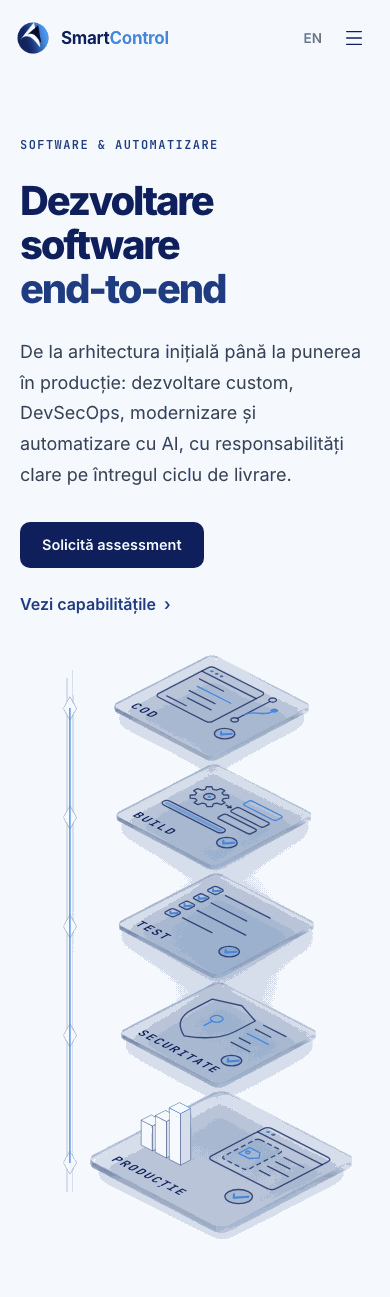
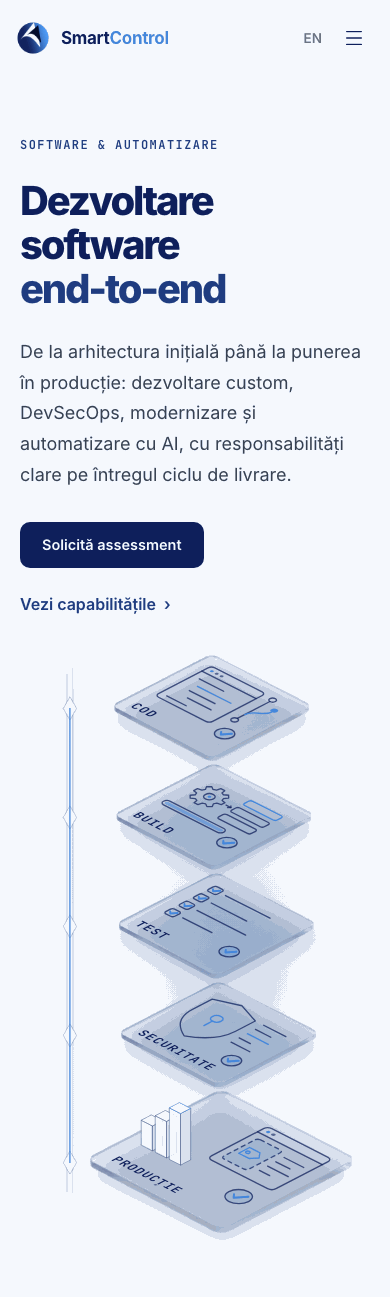
Keep engraved scene labels >=10px from 320 to 1440px
- Cloud and Software use the stacked composition up to 1100px (beside the
  copy at 901-1100px, below it under 901px); SCENE_MOBILE follows.
- Cloud desktop shows the 01-04 prefixes only from 1440px and engraves the
  bare names larger below that.
- Software desktop labels use tighter tracking; at 1101-1279px the scene
  takes a larger share of the row. Scenes may bleed 16px into the margin.
- check-service-scenes measures every visible label (glyph height via
  getExtentOfChar x screen CTM and glyph advance, the smaller of the two)
  and asserts >=10px at 320/390/640/768/900/1024/1100/1152/1280/1440.
- README: measured minimums per scene/width, 1024px screenshots.

diff --git a/src/components/scenes/cloud-scene.ts b/src/components/scenes/cloud-scene.ts
@@ -292,16 +292,22 @@ function tagSVG(
   kind: CloudLayoutKind,
 ) {
   const name = CLOUD_NAMES[lang][n].toLocaleUpperCase(lang);
-  // Mobile drops the number prefix so the name can be engraved larger.
-  const text = kind === "desktop" ? `0${n + 1}  ${name}` : name;
-  const spacing = kind === "desktop" ? 1.6 : 1;
-  const fit = (242 / text.length - spacing) / 0.6; // fills the front edge
-  const want = (kind === "desktop" ? 12.5 : 16) / ((UNIT * W) / RENDER_W);
-  const size = +Math.min(fit, want).toFixed(1);
-  const html = letters(text, (k) =>
-    kind === "desktop" && k < 2 ? "code" : "",
-  );
-  return `<svg class="tag" viewBox="0 0 ${RENDER_W} ${RENDER_H}"><g transform="matrix(${MATRIX})"><text x="24" y="262" font-size="${size}">${html}</text></g></svg>`;
+  const unit = (UNIT * W) / RENDER_W; // scene px per drawing unit
+  // Size that fills the front edge (mono advance 0.6em + tracking), capped
+  // at a comfortable on-screen size for the composition's full scale.
+  const size = (text: string, spacing: number, cap: number) =>
+    +Math.min((242 / text.length - spacing) / 0.6, cap / unit).toFixed(1);
+  // The bare name, engraved large: the stacked layout always, the desktop
+  // one below 1440px (CSS), where the number prefix would push it under 10px.
+  const short = size(name, 1, 16);
+  if (kind === "mobile")
+    return `<svg class="tag" viewBox="0 0 ${RENDER_W} ${RENDER_H}"><g transform="matrix(${MATRIX})"><text x="24" y="262" font-size="${short}">${letters(name)}</text></g></svg>`;
+  const full = size(`0${n + 1}  ${name}`, 1.6, 12.5);
+  const html =
+    letters(`0${n + 1}`, () => "code") +
+    letters("  ", () => "sp") +
+    letters(name);
+  return `<svg class="tag" viewBox="0 0 ${RENDER_W} ${RENDER_H}"><g transform="matrix(${MATRIX})"><text x="24" y="262" font-size="${full}" style="--fs-full:${full}px;--fs-short:${short}px">${html}</text></g></svg>`;
 }
 
 function slabHTML(

diff --git a/src/styles/detail.css b/src/styles/detail.css
@@ -379,7 +379,7 @@
   align-items: start;
 }
 .service-hero--scene .service-scene {
-  margin-right: calc(-1 * max(0px, (100vw - 1180px) / 2 - 32px));
+  margin-right: calc(-1 * max(16px, (100vw - 1180px) / 2 - 32px));
 }
 /* The layered-defence stack and the delivery pipeline are wide: give them
    the larger share of the row. */
@@ -388,6 +388,14 @@
   .service-hero--scene[data-hero-scene="software-automation"]
     .detail-hero-grid {
     grid-template-columns: minmax(0, 0.9fr) minmax(0, 1.25fr);
+  }
+}
+/* 1101–1279px: the pipeline's diagonal is width-bound, so it takes a bit
+   more of the row to keep its engraved labels ≥10px. */
+@media (min-width: 1101px) and (max-width: 1279px) {
+  .service-hero--scene[data-hero-scene="software-automation"]
+    .detail-hero-grid {
+    grid-template-columns: minmax(0, 0.8fr) minmax(0, 1.3fr);
   }
 }
 @media (max-width: 900px) {

diff --git a/src/components/scenes/software-scene.ts b/src/components/scenes/software-scene.ts
@@ -293,7 +293,7 @@ export function softwareMarkup(L: SoftwareLayout, lang: "ro" | "en") {
   let fs = 15 / u0;
   ST.forEach((s, i) => {
     const n = SOFTWARE_LABELS[lang][i].length;
-    const fit = 226 / n / 0.72; // mono advance ~0.6em + 0.12em tracking
+    const fit = 226 / n / 0.66; // mono advance ~0.6em + 0.06em tracking
     fs = Math.min(fs, (fit * unit(s)) / u0);
   });
   const lpx = fs * u0; // in scene px
@@ -305,7 +305,7 @@ export function softwareMarkup(L: SoftwareLayout, lang: "ro" | "en") {
     );
     shadows += `<polygon class="shadow" data-i="${i}" points="${sh.join(" ")}" filter="url(#${uid}-soft)"/>`;
     const size = f(lpx / unit(s));
-    const spacing = f(size * 0.12);
+    const spacing = f(size * 0.06);
     let extra = "";
     if (s.id === "prod") {
       // Server stack on the back corner: three mini slabs.

diff --git a/src/styles/scenes.css b/src/styles/scenes.css
@@ -17,7 +17,9 @@
 .service-scene .scene-layout[data-scene-layout="mobile"] {
   display: none;
 }
-@media (max-width: 600px) {
+/* The stacked ("mobile") composition runs up to 1100px so engraved labels
+   stay ≥10px on phones, tablets and small laptops (SCENE_MOBILE). */
+@media (max-width: 1100px) {
   .service-scene .scene-layout[data-scene-layout="desktop"] {
     display: none;
   }

diff --git a/src/scripts/scene-runtime.ts b/src/scripts/scene-runtime.ts
@@ -26,8 +26,8 @@ export interface SceneDefinition {
   idle(ctx: SceneContext): void;
 }
 
-/** Layout switch shared with the components' CSS (desktop ↔ mobile markup). */
-export const SCENE_MOBILE = "(max-width: 600px)";
+/** Layout switch shared with scenes.css (desktop ↔ stacked markup). */
+export const SCENE_MOBILE = "(max-width: 1100px)";
 
 interface Timer {
   fn: () => void;

diff --git a/docs/design-proposals/service-hero-scenes/README.md b/docs/design-proposals/service-hero-scenes/README.md
@@ -69,16 +69,34 @@ The trail and ticks then reset for the next release.
 
 ## Review feedback applied
 
-- **Mobile labels (≤600px):** each scene has a phone layout where every
-  engraved label is at least 10px effective. At 320px the minimum is 10.3–10.6px;
-  at 390px it is 12.2–12.9px.
+- **Label legibility at every width:** every engraved label is at least 10px
+  effective from 320 to 1440px. Cloud and Software have a stacked
+  composition, used up to 1100px (phones, tablets and small laptops; beside
+  the copy at 901–1100px, under it below 901px).
   - **Cloud:** one column. The cloud floats above the platform, a riser
     carries the VMs, and DR stands in front of the floor. Labels drop the
-    number prefix.
-  - **Security:** the SVG bleeds to the screen edges and engraves larger
-    labels without the prefix.
+    number prefix. The desktop diagonal shows the `01`–`04` prefixes only
+    from 1440px; below that it hides them and engraves the names larger.
+  - **Security:** one SVG at every width. Below 601px it bleeds to the
+    screen edges and engraves larger labels without the prefix.
   - **Software:** stations in a column beside a vertical rail. The production
     server stack is omitted here because it would cover the security label.
+    On the desktop diagonal, label tracking is tighter (0.06em) and at
+    1101–1279px the scene takes a larger share of the row.
+
+  Measured minimum effective label size (smaller of glyph height via
+  `getExtentOfChar` × screen CTM and glyph advance; RO / EN):
+
+  | Width | Cloud       | Security    | Software    |
+  | ----- | ----------- | ----------- | ----------- |
+  | 320   | 11.1 / 11.0 | 10.4 / 10.4 | 10.4 / 10.4 |
+  | 390   | 12.6 / 12.4 | 12.7 / 12.7 | 12.2 / 12.2 |
+  | 768   | 12.6 / 12.4 | 14.5 / 14.5 | 12.2 / 12.2 |
+  | 1024  | 12.6 / 12.4 | 11.2 / 11.2 | 12.2 / 12.2 |
+  | 1152  | 13.6 / 11.2 | 12.7 / 12.7 | 10.2 / 10.2 |
+  | 1280  | 14.5 / 12.0 | 13.7 / 13.7 | 10.3 / 10.3 |
+  | 1440  | 12.9 / 10.1 | 15.3 / 15.3 | 11.5 / 11.5 |
+
 - **Security:**
   - the first story now finishes within 8 s (before: 9.9 s);
   - the identity-edge light renders above the threat;
@@ -191,9 +209,9 @@ carry the id `scene-intro`, so checks can tell them from idle beats.
     labels;
   - no MP4 requests;
   - the desktop↔mobile layout switch;
-  - geometry at 320/390/768/1024/1280/1440px: no overflow, no copy overlap,
-    the scene under the copy at ≤900px, the CTA above 750px, and labels ≥10px
-    on phones;
+  - geometry at 320/390/640/768/900/1024/1100/1152/1280/1440px: no
+    overflow, no copy overlap, the scene under the copy at ≤900px, the CTA
+    above 750px, and every visible engraved label ≥10px effective;
   - Astro navigation teardown Cloud → Security → Software → Managed (video)
     → Cloud.
 - The scene check ran 3× in a row without failure.
@@ -204,6 +222,7 @@ carry the id `scene-intro`, so checks can tell them from idle beats.
 | Security (RO) | [final](security-ro-desktop-final.png)      | [threat stopped](security-ro-desktop-story.png) | [final](security-ro-mobile-final.png)           | [threat stopped](security-ro-mobile-story.png) |
 | Software (RO) | [final](software-ro-desktop-final.png)      | [security scan](software-ro-desktop-story.png)  | [final](software-ro-mobile-final.png)           | [security scan](software-ro-mobile-story.png)  |
 | English       | [Cloud desktop](cloud-en-desktop-final.png) |                                                 | [Software mobile](software-en-mobile-final.png) |                                                |
+| 1024px (RO)   | [Cloud, stacked](cloud-ro-1024-final.png)   | [Software, stacked](software-ro-1024-final.png) |                                                 |                                                |
 
 "Final" shows the still state, which is also the state after the intro.
 Mid-story frames are the intro seeked to a fixed time. The PNGs are
